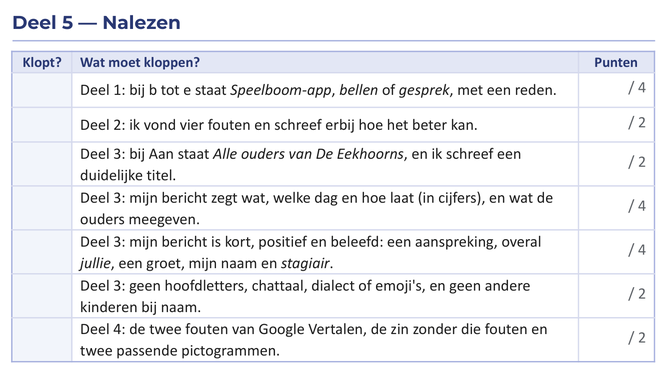
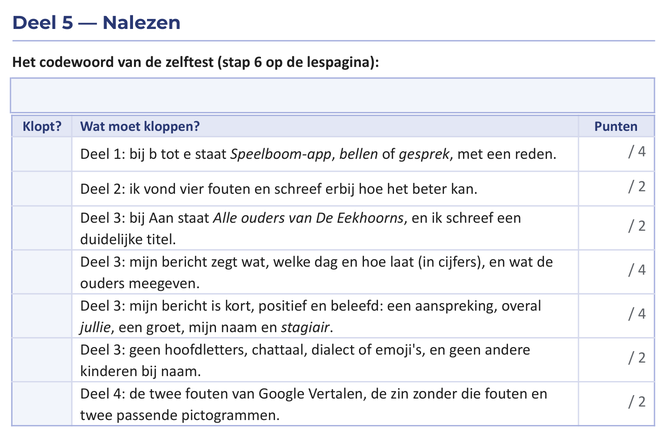
Laatste stap: inleveren pas na de zelftest, met een codewoord in het werkdocument
Zoals MWW les 3 (Jonas, 15-10-2026: "wel in alles wat er na komt"). Het werkdocument begint
het laatste deel met het vak voor het codewoord.

diff --git a/index.html b/index.html
@@ -34,6 +34,7 @@
   <symbol id="i-hand" viewBox="0 0 24 24"><path d="M8 12V6a1.5 1.5 0 0 1 3 0v5"/><path d="M11 10.5V4.5a1.5 1.5 0 0 1 3 0v6"/><path d="M14 10.5V6a1.5 1.5 0 0 1 3 0v7.5"/><path d="M8 11.5l-1.5-1.5a1.6 1.6 0 0 0-2.3 2.3l3.6 4.2A6.5 6.5 0 0 0 17 13.5"/></symbol>
   <symbol id="i-left" viewBox="0 0 24 24"><path d="M15 6l-6 6 6 6"/></symbol>
   <symbol id="i-right" viewBox="0 0 24 24"><path d="M9 6l6 6-6 6"/></symbol>
+  <symbol id="i-lock" viewBox="0 0 24 24"><rect x="5" y="11" width="14" height="10" rx="2"/><path d="M8 11V8a4 4 0 0 1 8 0v3"/></symbol>
 </svg>
 
 <div class="teacher-banner">Leraarweergave: de roze kaders tonen waar je een screenshot kan plaatsen. Leerlingen zien die kaders niet.</div>
@@ -398,8 +399,38 @@
       <article class="card">
         <header class="card-head met-mascotte"><div><div class="tags"><span class="tag tag-step">Stap 6</span><span class="tag tag-where"><svg class="ic" aria-hidden="true"><use href="#i-send"/></svg> Inleveren</span><span class="tag tag-where"><img class="logo" src="assets/logos/docs.svg" alt=""> Werkdocument, deel 5</span></div><h2 id="h-6">Nalezen en inleveren</h2></div><img class="mascotte-kop" src="assets/mascotte/dalton_inleveren.webp" alt="" width="120" height="120"></header>
         <div class="card-body">
-          <p class="intro">Bijna klaar. Je leest je bericht na met de criteria, en je levert in.</p>
-<div class="todo-box"><div class="todo-head"><h3><svg class="ic" aria-hidden="true"><use href="#i-list"/></svg> Wat moet je doen?</h3><div class="modus" role="group" aria-label="Hoe wil je de uitleg?"><button type="button" class="modus-btn" data-modus="stap" aria-pressed="true">Stap voor stap</button><button type="button" class="modus-btn" data-modus="kort" aria-pressed="false">Kort</button></div></div><ol class="doe"><li><details class="stapjes" open><summary><span class="doe-tekst">Kruis in <strong>deel 5</strong> aan wat klopt.</span><span class="stapjes-knop" aria-hidden="true"></span></summary><ol class="klein"><li><p>Scroll naar <strong>Deel 5</strong>. Lees je bericht in deel 3 na, met de zinnen in deel 5.</p><img class="mini" src="assets/stapjes/s6-deel5.png" alt="Deel 5 Nalezen: een tabel. Links een leeg vak, in het midden wat moet kloppen, rechts de punten." loading="lazy"></li><li><p>Klopt een zin? Klik in het vak ervoor en typ <strong>x</strong>.</p><img class="mini" src="assets/stapjes/s6-kruis.png" alt="Deel 5: in het vak voor de eerste zin staat nu een x, in een rood kader." loading="lazy"></li><li><p>Klopt iets nog niet? Verbeter eerst je bericht.</p></li></ol></details></li><li><details class="stapjes" open><summary><span class="doe-tekst">Beantwoord de slotvraag.</span><span class="stapjes-knop" aria-hidden="true"></span></summary><ol class="klein"><li><p>Klik in het vak onder <em>Waarom vertel je moeilijk nieuws liever niet met een berichtje in de Speelboom-app?</em> en typ je antwoord.</p><img class="mini" src="assets/stapjes/s6-slotvraag.png" alt="Deel 5: de slotvraag met het vak eronder, in een rood kader." loading="lazy"></li></ol></details></li><li><details class="stapjes" open><summary><span class="doe-tekst">Lever in.</span><span class="stapjes-knop" aria-hidden="true"></span></summary><ol class="klein"><li><p>Klik bovenaan op het tabblad <strong class="met-logo"><img class="logo" src="assets/logos/classroom.svg" alt="">Google Classroom</strong>.</p><div class="teken-tabs" role="img" aria-label="Tekening van de tabbladen bovenaan in Chrome. Het tabblad Google Classroom staat in een rood kader."><span class="tt-tab wijs"><img class="logo" src="assets/logos/classroom.svg" alt="">Google Classroom</span><span class="tt-tab"><img class="logo" src="assets/logos/lespagina.webp" alt="">Lespagina · Les 4</span><span class="tt-tab actief"><img class="logo" src="assets/logos/docs.svg" alt="">Ouderbericht</span></div></li><li><p>Zoek rechts, bij <strong>Jouw werk</strong>, de knop <span class="ui">Inleveren</span>. Klik erop.</p><div class="mock mock-opdracht mini-mock" role="img" aria-label="Tekening van de opdracht. Bij Jouw werk staat de knop Inleveren in een rood kader."><div class="mo-midden"><div class="mo-titel"><img class="logo" src="assets/logos/classroom.svg" alt="">Les 4 — Berichten aan ouders</div><div class="mo-chip"><img class="logo" src="assets/logos/lespagina.webp" alt=""><span>Lespagina</span></div><div class="mo-chip ai-hulp"><svg class="ic" aria-hidden="true"><use href="#i-spark"/></svg><span>AI-hulp</span></div></div><div class="mo-werk"><div class="mo-werk-kop">Jouw werk</div><div class="mo-chip"><img class="logo" src="assets/logos/docs.svg" alt=""><span>Ouderbericht</span></div><div class="mo-knop wijs">Inleveren</div></div></div></li><li><p>Klik in het venster <em>Je werk inleveren?</em> nog eens op <span class="ui">Inleveren</span>.<span class="sub">Daarna staat er rechts <em>Ingeleverd</em>.</span></p></li></ol></details></li></ol><figure class="clip"><video src="assets/video/inleveren.mp4" poster="assets/video/inleveren.jpg" autoplay loop muted playsinline controls preload="metadata" aria-label="Filmpje: rechts, bij Jouw werk, op Inleveren klikken; in het venster Je werk inleveren? nog eens op Inleveren klikken; daarna staat er Ingeleverd."></video><figcaption>Filmpje van 10 seconden: zo lever je in. Het is een andere opdracht, de knoppen zijn dezelfde.</figcaption></figure></div>
+          <p class="intro">Bijna klaar. Beantwoord eerst de drie vragen. Zijn ze alle drie juist? Dan zie je hieronder hoe je nakijkt en inlevert.</p>
+          <div class="quiz">
+            <div class="quiz-q" data-ok="Juist. De ouders moeten meteen iets doen: dan bel je. Nieuws over één kind zet je nooit in een bericht aan alle ouders." data-nok="Nog niet. Moeten de ouders meteen iets doen? Kijk op de theoriekaart bij Welk kanaal?">
+              <p>1. Lucas valt op de speelplaats. Hij moet vandaag nog naar de dokter. Hoe laat je het zijn ouders weten?</p>
+              <div class="opts">
+                <button type="button">Met een berichtje in de Speelboom-app aan alle ouders</button>
+                <button type="button" data-right>Je belt de ouders van Lucas</button>
+                <button type="button">Met een WhatsApp vanaf je eigen gsm</button>
+              </div>
+              <p class="feedback" role="status"></p>
+            </div>
+            <div class="quiz-q" data-ok="Juist. Alle ouders samen: jullie. Zonder hoofdletters en uitroeptekens klinkt het vriendelijk." data-nok="Nog niet. Alle ouders samen spreek je aan met jullie, zonder u ertussen. En hoofdletters lezen als roepen.">
+              <p>2. Je schrijft een berichtje aan alle ouders van De Eekhoorns. Welke zin past?</p>
+              <div class="opts">
+                <button type="button">Kunt u laarzen meegeven? Jullie kind mag ook een koek meebrengen.</button>
+                <button type="button" data-right>Geven jullie laarzen mee?</button>
+                <button type="button">GEEF LAARZEN MEE!!!</button>
+              </div>
+              <p class="feedback" role="status"></p>
+            </div>
+            <div class="quiz-q" data-ok="Juist. Een vertaalapp maakt soms fouten. En een naam typ je nooit in een vertaalapp." data-nok="Nog niet. Kijk op de theoriekaart bij Een vertaalapp: kijk na.">
+              <p>3. Je vertaalt een kort bericht met een vertaalapp. Wat doe je daarna?</p>
+              <div class="opts">
+                <button type="button">Niets: de app vertaalt altijd juist</button>
+                <button type="button" data-right>Je laat de vertaling terugvertalen, of je vraagt of de ouder het begreep</button>
+                <button type="button">Je zet de naam van het kind erbij, dan vertaalt de app beter</button>
+              </div>
+              <p class="feedback" role="status"></p>
+            </div>
+          </div>
+          <p class="slot" aria-live="polite" data-codewoord="EEKHOORN"><svg class="ic ic-dicht" aria-hidden="true"><use href="#i-lock"/></svg><svg class="ic ic-open" aria-hidden="true"><use href="#i-check-circle"/></svg><span class="slot-tekst">Beantwoord de drie vragen hierboven juist. Dan zie je hier hoe je inlevert.</span></p>
+<div class="todo-box" data-na-zelftest="c6z"><div class="todo-head"><h3><svg class="ic" aria-hidden="true"><use href="#i-list"/></svg> Wat moet je doen?</h3><div class="modus" role="group" aria-label="Hoe wil je de uitleg?"><button type="button" class="modus-btn" data-modus="stap" aria-pressed="true">Stap voor stap</button><button type="button" class="modus-btn" data-modus="kort" aria-pressed="false">Kort</button></div></div><ol class="doe"><li><details class="stapjes" open><summary><span class="doe-tekst">Typ het codewoord in <strong>deel 5</strong>.</span><span class="stapjes-knop" aria-hidden="true"></span></summary><ol class="klein"><li><p>Scroll naar <strong>Deel 5</strong>. Typ het codewoord in het eerste vak.<span class="sub">Het codewoord staat in de groene regel hierboven.</span></p><img class="mini" src="assets/stapjes/s6-codewoord.png" alt="Deel 5: de vraag naar het codewoord van de zelftest, met het vak eronder in een rood kader." loading="lazy"></li></ol></details></li><li><details class="stapjes" open><summary><span class="doe-tekst">Kruis in <strong>deel 5</strong> aan wat klopt.</span><span class="stapjes-knop" aria-hidden="true"></span></summary><ol class="klein"><li><p>Scroll naar <strong>Deel 5</strong>. Lees je bericht in deel 3 na, met de zinnen in deel 5.</p><img class="mini" src="assets/stapjes/s6-deel5.png" alt="Deel 5 Nalezen: een tabel. Links een leeg vak, in het midden wat moet kloppen, rechts de punten." loading="lazy"></li><li><p>Klopt een zin? Klik in het vak ervoor en typ <strong>x</strong>.</p><img class="mini" src="assets/stapjes/s6-kruis.png" alt="Deel 5: in het vak voor de eerste zin staat nu een x, in een rood kader." loading="lazy"></li><li><p>Klopt iets nog niet? Verbeter eerst je bericht.</p></li></ol></details></li><li><details class="stapjes" open><summary><span class="doe-tekst">Beantwoord de slotvraag.</span><span class="stapjes-knop" aria-hidden="true"></span></summary><ol class="klein"><li><p>Klik in het vak onder <em>Waarom vertel je moeilijk nieuws liever niet met een berichtje in de Speelboom-app?</em> en typ je antwoord.</p><img class="mini" src="assets/stapjes/s6-slotvraag.png" alt="Deel 5: de slotvraag met het vak eronder, in een rood kader." loading="lazy"></li></ol></details></li><li><details class="stapjes" open><summary><span class="doe-tekst">Lever in.</span><span class="stapjes-knop" aria-hidden="true"></span></summary><ol class="klein"><li><p>Klik bovenaan op het tabblad <strong class="met-logo"><img class="logo" src="assets/logos/classroom.svg" alt="">Google Classroom</strong>.</p><div class="teken-tabs" role="img" aria-label="Tekening van de tabbladen bovenaan in Chrome. Het tabblad Google Classroom staat in een rood kader."><span class="tt-tab wijs"><img class="logo" src="assets/logos/classroom.svg" alt="">Google Classroom</span><span class="tt-tab"><img class="logo" src="assets/logos/lespagina.webp" alt="">Lespagina · Les 4</span><span class="tt-tab actief"><img class="logo" src="assets/logos/docs.svg" alt="">Ouderbericht</span></div></li><li><p>Zoek rechts, bij <strong>Jouw werk</strong>, de knop <span class="ui">Inleveren</span>. Klik erop.</p><div class="mock mock-opdracht mini-mock" role="img" aria-label="Tekening van de opdracht. Bij Jouw werk staat de knop Inleveren in een rood kader."><div class="mo-midden"><div class="mo-titel"><img class="logo" src="assets/logos/classroom.svg" alt="">Les 4 — Berichten aan ouders</div><div class="mo-chip"><img class="logo" src="assets/logos/lespagina.webp" alt=""><span>Lespagina</span></div><div class="mo-chip ai-hulp"><svg class="ic" aria-hidden="true"><use href="#i-spark"/></svg><span>AI-hulp</span></div></div><div class="mo-werk"><div class="mo-werk-kop">Jouw werk</div><div class="mo-chip"><img class="logo" src="assets/logos/docs.svg" alt=""><span>Ouderbericht</span></div><div class="mo-knop wijs">Inleveren</div></div></div></li><li><p>Klik in het venster <em>Je werk inleveren?</em> nog eens op <span class="ui">Inleveren</span>.<span class="sub">Daarna staat er rechts <em>Ingeleverd</em>.</span></p></li></ol></details></li></ol><figure class="clip"><video src="assets/video/inleveren.mp4" poster="assets/video/inleveren.jpg" autoplay loop muted playsinline controls preload="metadata" aria-label="Filmpje: rechts, bij Jouw werk, op Inleveren klikken; in het venster Je werk inleveren? nog eens op Inleveren klikken; daarna staat er Ingeleverd."></video><figcaption>Filmpje van 10 seconden: zo lever je in. Het is een andere opdracht, de knoppen zijn dezelfde.</figcaption></figure></div>
           <div class="tip"><svg class="ic" aria-hidden="true"><use href="#i-bulb"/></svg><p><strong>Niet klaar om 16.15 uur?</strong> Werk verder tot vrijdag 23 oktober 2026, 20.00 uur. Klik op <span class="ui">Inleveren</span> als je klaar bent.</p></div>
         </div>
         <footer class="card-nav"><button class="btn" type="button" data-goto="5"><svg class="ic" aria-hidden="true"><use href="#i-left"/></svg> Stap 5</button><button class="btn btn-primary" type="button" data-goto="extra">Extra <svg class="ic" aria-hidden="true"><use href="#i-right"/></svg></button></footer>
@@ -452,7 +483,8 @@
         <label class="cl-item"><input type="checkbox" id="c5c"><span>Twee pictogrammen (deel 4c)</span></label>
       </div>
       <div class="cl-group" data-step="6"><h3>6 · Inleveren</h3>
-        <label class="cl-item"><input type="checkbox" id="c6a"><span>Deel 5 aangekruist</span></label>
+        <label class="cl-item"><input type="checkbox" id="c6z"><span>Zelftest: alle drie juist</span></label>
+        <label class="cl-item"><input type="checkbox" id="c6a"><span>Codewoord getypt, deel 5 aangekruist</span></label>
         <label class="cl-item"><input type="checkbox" id="c6b"><span>Slotvraag beantwoord</span></label>
         <label class="cl-item"><input type="checkbox" id="c6c"><span>Werkdocument ingeleverd</span></label>
       </div>

diff --git a/js/script.js b/js/script.js
@@ -190,6 +190,63 @@
     });
   });
 
+  /* ---------- 6b. Inleveren pas na de zelftest (15-10-2026) ----------
+   * Een todo-box met data-na-zelftest="<id van een vinkje>" blijft dicht tot alle vragen van de zelftest in
+   * dezelfde stap juist zijn (Jonas: anders slaan ze de zelftest over en leveren ze meteen in). Opnieuw
+   * proberen mag. Eenmaal open blijft hij open, ook na herladen, en het vinkje gaat aan. Zonder JavaScript
+   * en met ?leraar staat alles open. Heeft de slotregel data-codewoord, dan toont ze dat woord als alles
+   * juist is: de leerling typt het in het werkdocument (staat niet in de tekst, dus niet in ai-bron.txt). */
+  all('[data-na-zelftest]').forEach(function (box) {
+    var pane = box.closest('.pane');
+    var vragen = all('.quiz-q', pane);
+    var slot = pane.querySelector('.slot');
+    var tekst = slot && slot.querySelector('.slot-tekst');
+    var sleutel = 'open_' + pane.id;
+    var vink = document.getElementById(box.getAttribute('data-na-zelftest'));
+    function juist() { return vragen.filter(function (q) { return q.querySelector('button.right'); }).length; }
+    function toon(open) {
+      box.hidden = !open;
+      if (!slot) return;
+      slot.classList.toggle('open', open);
+      var n = vragen.length - juist();
+      var code = slot.getAttribute('data-codewoord');   // het bewijs in het werkdocument (sinds 15-10-2026)
+      if (!tekst) return;
+      if (open && code) {
+        tekst.textContent = 'Alles juist. Jouw codewoord is ';
+        var b = document.createElement('strong');
+        b.className = 'codewoord';
+        b.textContent = code;
+        tekst.appendChild(b);
+        tekst.appendChild(document.createTextNode('. Typ het in je werkdocument. Zo lever je in:'));
+      } else {
+        tekst.textContent = open ? 'Alles juist. Zo lever je in:' :
+          'Nog ' + n + (n === 1 ? ' vraag' : ' vragen') + ' juist te beantwoorden. Dan zie je hier hoe je inlevert.';
+      }
+    }
+    function maakOpen() {
+      store(sleutel, true);
+      toon(true);
+      if (vink && !vink.checked) { vink.checked = true; vink.dispatchEvent(new Event('change')); }
+      setTimeout(function () {             // de regel net onder de vaste balk bovenaan, de stappen eronder
+        if (!slot) return;
+        var balk = document.querySelector('.topbar');
+        var marge = (balk && getComputedStyle(balk).position !== 'static' ? balk.offsetHeight : 0) + 16;
+        window.scrollTo({ top: slot.getBoundingClientRect().top + window.scrollY - marge, behavior: 'smooth' });
+      }, 700);
+    }
+    var open = teacherMode || load(sleutel, false) || !vragen.length;
+    toon(open);
+    if (open) return;
+    vragen.forEach(function (q) {
+      all('button', q).forEach(function (btn) {
+        btn.addEventListener('click', function () {
+          if (!box.hidden) return;
+          if (juist() === vragen.length) maakOpen(); else toon(false);
+        });
+      });
+    });
+  });
+
   /* ---------- 7. Screenshot-plaatsen ---------- */
   all('figure.shot').forEach(function (fig) {
     var file = fig.getAttribute('data-shot');

diff --git a/css/style.css b/css/style.css
@@ -620,3 +620,17 @@ body:not([data-ai-hulp="aan"]) .ai-hulp { display: none !important; }
 
 /* het kanaal: Aan, Cc, Bcc-raster, hier met app, bellen en gesprek */
 .ccb.kanaal .ccb-vak { font-size: .93rem; }
+
+/* Inleveren pas na de zelftest (15-10-2026, _afspraken/lespagina.md): de regel onder de zelftest.
+   Zonder JavaScript is er geen slot, dus ook geen regel. */
+.slot { display: none; }
+body.js .slot { display: flex; align-items: center; gap: .6rem; margin: 0 0 1.2rem; padding: .75rem 1rem;
+  border-radius: var(--radius-sm); background: var(--peri-soft); color: var(--navy-deep); font-weight: 700; }
+.slot .ic { width: 1.3rem; height: 1.3rem; flex-shrink: 0; }
+.slot-tekst { line-height: 1.35; }
+.slot .ic-open { display: none; }
+.slot.open { background: var(--ok-soft); color: var(--ok); }
+.slot.open .ic-dicht { display: none; }
+.slot.open .ic-open { display: inline-block; }
+
+.slot .codewoord { background: #fff; color: var(--navy-deep); letter-spacing: .06em; padding: .05rem .45rem; border-radius: 6px; border: 1px solid var(--peri); }

diff --git a/werkdocument/maak_stapjes.py b/werkdocument/maak_stapjes.py
@@ -139,7 +139,9 @@ def main(leeg):
     vakken = vlakken(p, VAK)
     # vraag a is een tabel (twee rijen van twee vakken: Kobe schreef · Google Vertalen maakte ervan), dan b en c
     a1_kobe, a1_vert, a2_kobe, a2_vert, vb, vc = [v for v in vakken if kop4.y1 < v.y0 < kop5.y0]
-    vinkjes = [v for v in vakken if kop5.y1 < v.y0 < slot.y0]
+    code = tekst(p, "Het codewoord")                 # sinds 15-10-2026: deel 5 begint met het codewoord
+    antw_code = [v for v in vakken if code.y1 < v.y0 < slot.y0][0]
+    vinkjes = [v for v in vakken if antw_code.y1 < v.y0 < slot.y0]
     antw_slot = [v for v in vakken if v.y0 > slot.y1][0]
     links, rechts = vb.x0, vb.x1
     qa, qb, qc = tekst(p, "Welke twee fouten"), tekst(p, "Schrijf de zin van Kobe"), tekst(p, "Welke twee pictogrammen")
@@ -150,6 +152,8 @@ def main(leeg):
            [fitz.Rect(links, qb.y0 - 2, rechts, vb.y1)])
     bewaar(p, "s5-pict", rand(fitz.Rect(links, qc.y0, rechts, vc.y1), 8, 10),
            [fitz.Rect(links, qc.y0 - 2, rechts, vc.y1)])
+    bewaar(p, "s6-codewoord", rand(fitz.Rect(links, kop5.y0, rechts, antw_code.y1), 8, 10),
+           [fitz.Rect(links, code.y0 - 2, rechts, antw_code.y1)], onder=antw_code.y1 + 4)
     tab5 = fitz.Rect(links, kop5.y0, rechts, vinkjes[-1].y1)
     bewaar(p, "s6-deel5", rand(tab5), onder=vinkjes[-1].y1 + 1)
     bewaar(p, "s6-slotvraag", rand(fitz.Rect(links, slot.y0, rechts, antw_slot.y1), 8, 10),

diff --git a/werkdocument/maak_werkdocumenten.py b/werkdocument/maak_werkdocumenten.py
@@ -84,6 +84,10 @@ def ouderbericht():
 
     # ---- Deel 5: nalezen = de criteria van de beoordeling (lesvoorbereiding § 22)
     deel(doc, 5, "Nalezen")
+    # eerst het codewoord van de zelftest (15-10-2026): de lespagina toont het pas als de drie vragen van stap 6
+    # juist zijn; zo ziet Jonas wie de zelftest echt maakte (_afspraken/lespagina.md, De laatste stap)
+    vraag(doc, "Het codewoord van de zelftest (stap 6 op de lespagina):")
+    antwoordvak(doc, 0.9)
     controletabel(doc, [
         ("Deel 1: bij b tot e staat *Speelboom-app*, *bellen* of *gesprek*, met een reden.", 4),
         ("Deel 2: ik vond vier fouten en schreef erbij hoe het beter kan.", 2),

diff --git a/README.md b/README.md
@@ -63,6 +63,11 @@ de ingevulde eerste rijen, de route met minuten). Zes afwijkingen van de gewone 
 
 ### 1b. Hoe de lespagina werkt
 
+- **Stap 6: inleveren pas na de zelftest, met een codewoord** (15-10-2026, Jonas: "wel in alles wat er na komt"; zoals
+  MWW les 3): drie nieuwe vragen (welk kanaal bij een kind dat naar de dokter moet, *jullie* in een groepsbericht, een
+  vertaalapp nakijken). *Wat moet je doen?* blijft dicht tot alle drie juist zijn; dan toont de groene regel het
+  codewoord **EEKHOORN**, dat de leerling bovenaan deel 5 typt. Het Google-document aan het concept is vervangen
+  (15-10-2026, 11.47, nog `DRAFT`). Dit is een afstandsles: opnieuw proberen mag, dus niemand blijft vast.
 - **Startpagina**: *Wat heb je nodig?* in drie beelden (de opdracht, de lespagina, het werkdocument), één zin
   *Je werkt thuis: alles wat je nodig hebt, staat hier*, *Na deze les kan je*, *Vast?* als genummerde rij.
 - **Route** links, **één stap** in het midden, **checklist** rechts (17 taken). Op een smal scherm staat alles
@@ -184,6 +189,7 @@ als privéreactie. In de AI-hulp zie je wie een gesprek begon (niet wat gevraagd
 
 ## 4. Verbetersleutel
 
+- **Codewoord** bovenaan deel 5: **EEKHOORN**. Ontbreekt het, dan is de zelftest van stap 6 niet (juist) gemaakt.
 - **Deel 1** (4 punten): b **bellen** (de ouder moet meteen iets doen; een bericht wordt misschien te laat
   gelezen) · c **gesprek** bij het afhalen (bellen mag ook): gevoelig, de ouder moet je kunnen horen en zien en iets
   kunnen vragen · d **Speelboom-app**: een korte, praktische vraag, antwoord met een berichtje · e **Speelboom-app**: als
@@ -242,6 +248,8 @@ ondersteunend · `BV2_04.04` voorbereidend · `BV2_07.03` contextueel. De pre-pu
 
 ## 8. Wat nog moet blijken in de klas
 
+- **Inleveren pas na de zelftest, thuis** (15-10-2026): raken de leerlingen zonder leraar door de drie vragen? Staat
+  *EEKHOORN* bovenaan deel 5?
 - **Het filmpje Inleveren** (15-10-2026, in de laatste stap, in elke les tot de leerlingen het systeem kennen): leveren ze
   in zonder te vragen? Kijken ze naar het filmpje, en klikken ze in het venster *Je werk inleveren?* nog eens op *Inleveren*?
 - **Werken ze alleen door?** Komen ze zonder leraar tot en met stap 6, of haken ze af bij stap 4 (15 minuten, het
